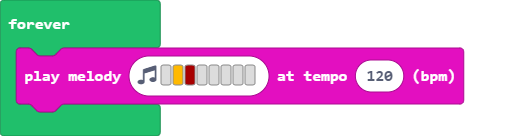
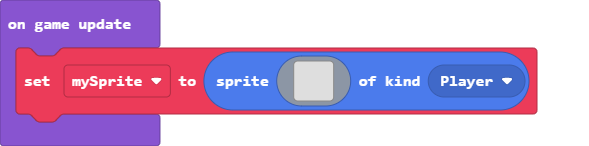
Update main.blocks, main.ts

diff --git a/main.ts b/main.ts
@@ -1,5 +1,26 @@
+let mySprite: Sprite = null
 controller.A.onEvent(ControllerButtonEvent.Pressed, function () {
     music.baDing.play()
+})
+game.onUpdate(function () {
+    mySprite = sprites.create(img`
+        . . . . . . . . . . . . . . . . 
+        . . . . . . . . . . . . . . . . 
+        . . . . . . . . . . . . . . . . 
+        . . . . . . . . . . . . . . . . 
+        . . . . . . . . . . . . . . . . 
+        . . . . . . . . . . . . . . . . 
+        . . . . . . . . . . . . . . . . 
+        . . . . . . . . . . . . . . . . 
+        . . . . . . . . . . . . . . . . 
+        . . . . . . . . . . . . . . . . 
+        . . . . . . . . . . . . . . . . 
+        . . . . . . . . . . . . . . . . 
+        . . . . . . . . . . . . . . . . 
+        . . . . . . . . . . . . . . . . 
+        . . . . . . . . . . . . . . . . 
+        . . . . . . . . . . . . . . . . 
+        `, SpriteKind.Player)
 })
 forever(function () {
     music.playMelody("- A C5 - - - - - ", 120)
